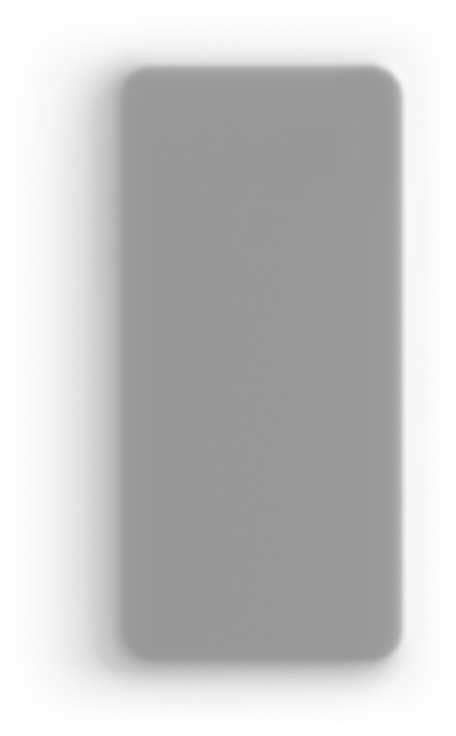
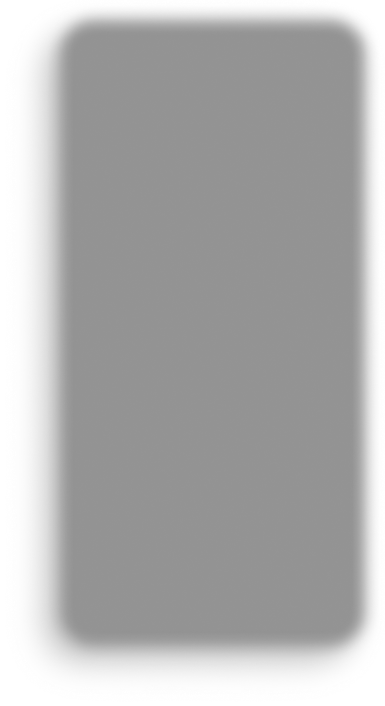
add slider fix

Changed region(s): [[0.0935, 0.0, 0.9662, 0.9348]]

diff --git a/src/blocks/slider-case/slider-case.scss b/src/blocks/slider-case/slider-case.scss
@@ -4,17 +4,26 @@
 }
 .slider-case__item {
 	/* 2 Block model */
-	widows: 100px;
+	width: 100%;
 	max-width: 400px;
 	padding: 50px 0;
-	padding-right: 20px;
-	padding-left: 20px;
+	padding-right: 30px;
+	padding-left: 30px;
 
 	/* 4 Visual */
 	outline: none;
 	@media (min-width: 768px) {
+		/* 2 Block model */
 		padding-right: 10px;
 		padding-left: 10px;
+	}
+	@media (min-width: 992px) {
+		/* 2 Block model */
+		max-width: 470px;
+	}
+	@media (min-width: 1200px) {
+		/* 2 Block model */
+		max-width: 400px;
 	}
 }
 

diff --git a/src/blocks/slider-case/slider-case.js b/src/blocks/slider-case/slider-case.js
@@ -7,9 +7,15 @@ $('.slider-case').slick({
   arrows: false,
   responsive: [
     {
-      breakpoint: 768,
+      breakpoint: 1199,
       settings: {
-        centerMode: true,
+        slidesToShow: 2,
+        slidesToScroll: 1
+      }
+    },
+    {
+      breakpoint: 480,
+      settings: {
         slidesToShow: 1,
         slidesToScroll: 1
       }

diff --git a/src/blocks/picture-shadow/picture-shadow.scss b/src/blocks/picture-shadow/picture-shadow.scss
@@ -18,14 +18,14 @@
 .picture-shadow::before {
 	/* 1 Positioning */
 	position: absolute;
-	top: -8%;
-	right: -8%;
-	bottom: -10%;
+	top: 0;
+	right: 6%;
+	bottom: -8%;
 	z-index: 1;
 
 	/* 2 Block model */
 	display: block;
-	width: 144%;
+	width: 110%;
 
 	/* 4 Visual */
 	content: '';
